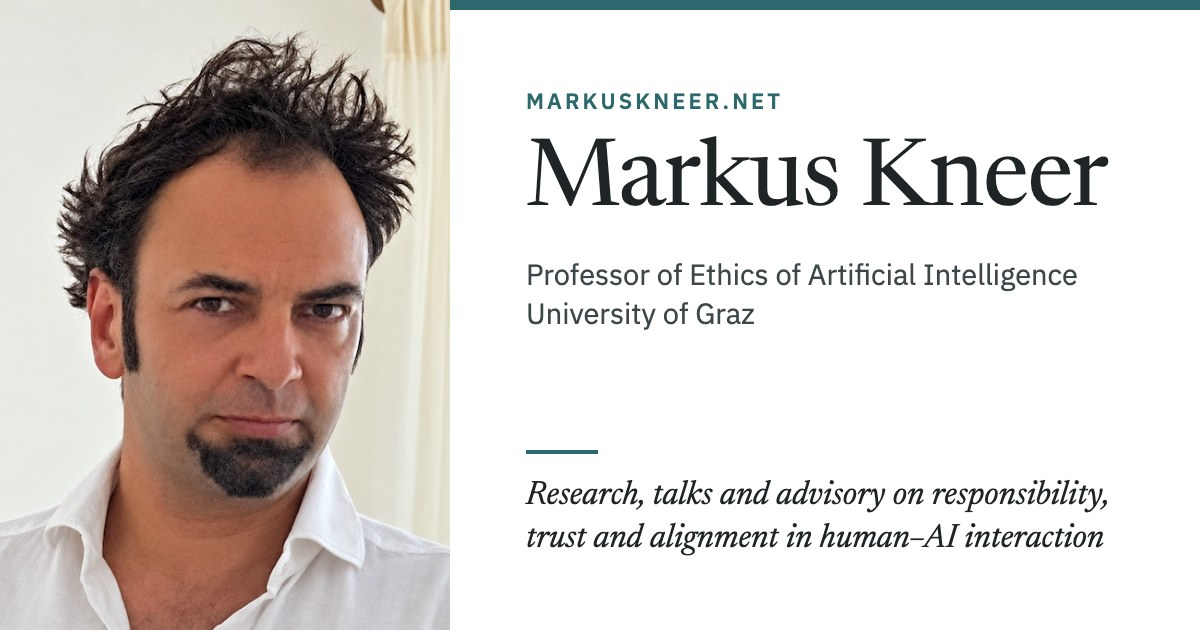
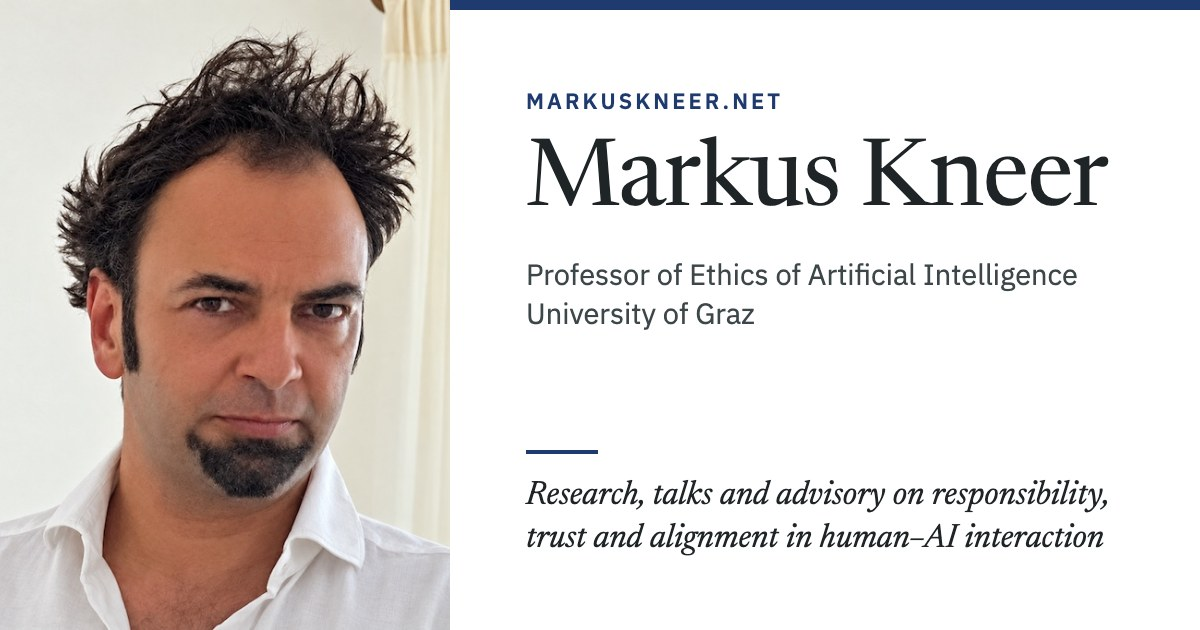
Switch the accent colour from teal to dark blue
Applies dark blue (#1E3A6E) to links, menu highlights, the MK icon and
the preview card. Links inside running text get a light underline,
since the blue is close to the text colour.

Changed region(s): [[0.37, 0.0, 1.0, 0.0302], [0.4317, 0.1508, 0.6475, 0.181], [0.4317, 0.6937, 0.4933, 0.7238]]

diff --git a/index.html b/index.html
@@ -6,16 +6,16 @@
 <title>Markus Kneer — Professor of Ethics of Artificial Intelligence, University of Graz</title>
 <meta name="description" content="Markus Kneer is Professor of Ethics of Artificial Intelligence at the University of Graz and director of the Guilty Minds Lab. Research on responsibility, trust and norms in human–AI interaction, moral and legal judgement, and the ethics of AI.">
 <link rel="canonical" href="https://www.markuskneer.net/">
-<link rel="icon" href="favicon.ico" sizes="16x16 32x32 48x48">
-<link rel="icon" type="image/png" sizes="192x192" href="favicon-192.png">
-<link rel="apple-touch-icon" href="apple-touch-icon.png">
+<link rel="icon" href="favicon.ico?v=2" sizes="16x16 32x32 48x48">
+<link rel="icon" type="image/png" sizes="192x192" href="favicon-192.png?v=2">
+<link rel="apple-touch-icon" href="apple-touch-icon.png?v=2">
 <meta property="og:type" content="website">
 <meta property="og:site_name" content="Markus Kneer">
 <meta property="og:locale" content="en_GB">
 <meta property="og:title" content="Markus Kneer — Ethics of Artificial Intelligence">
 <meta property="og:description" content="Professor of Ethics of Artificial Intelligence at the University of Graz. Research, talks and advisory on responsibility, trust and alignment in human–AI interaction.">
 <meta property="og:url" content="https://www.markuskneer.net/">
-<meta property="og:image" content="https://www.markuskneer.net/images/og-card.jpg">
+<meta property="og:image" content="https://www.markuskneer.net/images/og-card.jpg?v=2">
 <meta property="og:image:width" content="1200">
 <meta property="og:image:height" content="630">
 <meta property="og:image:alt" content="Markus Kneer, Professor of Ethics of Artificial Intelligence, University of Graz">
@@ -23,7 +23,7 @@
 <link rel="preconnect" href="https://fonts.googleapis.com">
 <link rel="preconnect" href="https://fonts.gstatic.com" crossorigin>
 <link href="https://fonts.googleapis.com/css2?family=Newsreader:ital,opsz,wght@0,6..72,400;0,6..72,500;1,6..72,400&family=IBM+Plex+Sans:wght@400;500;600&display=swap" rel="stylesheet">
-<link rel="stylesheet" href="style.css?v=2026-10-20b">
+<link rel="stylesheet" href="style.css?v=2026-10-20c">
 <script>document.documentElement.classList.add('js');</script>
 <script src="nav.js?v=2026-10-20b" defer></script>
 </head>
@@ -31,7 +31,7 @@
 
 <header class="site-header">
   <div class="wrap">
-    <a class="brand" href="index.html"><img class="brand-mark" src="favicon-192.png" width="40" height="40" alt="Markus Kneer, home page"></a>
+    <a class="brand" href="index.html"><img class="brand-mark" src="favicon-192.png?v=2" width="40" height="40" alt="Markus Kneer, home page"></a>
     <button class="nav-toggle" type="button" aria-expanded="false" aria-controls="site-nav"><span class="nav-toggle-bars" aria-hidden="true"></span><span class="visually-hidden">Menu</span></button>
     <nav class="site-nav" id="site-nav" aria-label="Site">
       <a href="#research">Research</a>

diff --git a/guiltymindslab.html b/guiltymindslab.html
@@ -6,16 +6,16 @@
 <title>Guilty Minds Lab — Markus Kneer</title>
 <meta name="description" content="The Guilty Minds Lab, led by Markus Kneer at the University of Graz, combines philosophy and experimental cognitive science to study responsibility, trust, alignment and legal judgement in the age of AI.">
 <link rel="canonical" href="https://www.markuskneer.net/guiltymindslab.html">
-<link rel="icon" href="favicon.ico" sizes="16x16 32x32 48x48">
-<link rel="icon" type="image/png" sizes="192x192" href="favicon-192.png">
-<link rel="apple-touch-icon" href="apple-touch-icon.png">
+<link rel="icon" href="favicon.ico?v=2" sizes="16x16 32x32 48x48">
+<link rel="icon" type="image/png" sizes="192x192" href="favicon-192.png?v=2">
+<link rel="apple-touch-icon" href="apple-touch-icon.png?v=2">
 <meta property="og:type" content="website">
 <meta property="og:site_name" content="Markus Kneer">
 <meta property="og:locale" content="en_GB">
 <meta property="og:title" content="Guilty Minds Lab — Markus Kneer">
 <meta property="og:description" content="The Guilty Minds Lab, led by Markus Kneer at the University of Graz, combines philosophy and experimental cognitive science to study responsibility, trust, alignment and legal judgement in the age of AI.">
 <meta property="og:url" content="https://www.markuskneer.net/guiltymindslab.html">
-<meta property="og:image" content="https://www.markuskneer.net/images/og-card.jpg">
+<meta property="og:image" content="https://www.markuskneer.net/images/og-card.jpg?v=2">
 <meta property="og:image:width" content="1200">
 <meta property="og:image:height" content="630">
 <meta property="og:image:alt" content="Markus Kneer, Professor of Ethics of Artificial Intelligence, University of Graz">
@@ -23,7 +23,7 @@
 <link rel="preconnect" href="https://fonts.googleapis.com">
 <link rel="preconnect" href="https://fonts.gstatic.com" crossorigin>
 <link href="https://fonts.googleapis.com/css2?family=Newsreader:ital,opsz,wght@0,6..72,400;0,6..72,500;1,6..72,400&family=IBM+Plex+Sans:wght@400;500;600&display=swap" rel="stylesheet">
-<link rel="stylesheet" href="style.css?v=2026-10-20b">
+<link rel="stylesheet" href="style.css?v=2026-10-20c">
 <script>document.documentElement.classList.add('js');</script>
 <script src="nav.js?v=2026-10-20b" defer></script>
 </head>
@@ -31,7 +31,7 @@
 
 <header class="site-header">
   <div class="wrap">
-    <a class="brand" href="index.html"><img class="brand-mark" src="favicon-192.png" width="40" height="40" alt="Markus Kneer, home page"></a>
+    <a class="brand" href="index.html"><img class="brand-mark" src="favicon-192.png?v=2" width="40" height="40" alt="Markus Kneer, home page"></a>
     <button class="nav-toggle" type="button" aria-expanded="false" aria-controls="site-nav"><span class="nav-toggle-bars" aria-hidden="true"></span><span class="visually-hidden">Menu</span></button>
     <nav class="site-nav" id="site-nav" aria-label="Site">
       <a href="index.html#research">Research</a>

diff --git a/nihai.html b/nihai.html
@@ -6,16 +6,16 @@
 <title>NIHAI — Norms of Assertion in Linguistic Human–AI Interaction — Markus Kneer</title>
 <meta name="description" content="NIHAI is a four-country HERA/CHANSE research consortium led by Markus Kneer on norms of assertion and responsible principles for AI-driven conversational agents.">
 <link rel="canonical" href="https://www.markuskneer.net/nihai.html">
-<link rel="icon" href="favicon.ico" sizes="16x16 32x32 48x48">
-<link rel="icon" type="image/png" sizes="192x192" href="favicon-192.png">
-<link rel="apple-touch-icon" href="apple-touch-icon.png">
+<link rel="icon" href="favicon.ico?v=2" sizes="16x16 32x32 48x48">
+<link rel="icon" type="image/png" sizes="192x192" href="favicon-192.png?v=2">
+<link rel="apple-touch-icon" href="apple-touch-icon.png?v=2">
 <meta property="og:type" content="website">
 <meta property="og:site_name" content="Markus Kneer">
 <meta property="og:locale" content="en_GB">
 <meta property="og:title" content="NIHAI — Norms of Assertion in Linguistic Human–AI Interaction — Markus Kneer">
 <meta property="og:description" content="NIHAI is a four-country HERA/CHANSE research consortium led by Markus Kneer on norms of assertion and responsible principles for AI-driven conversational agents.">
 <meta property="og:url" content="https://www.markuskneer.net/nihai.html">
-<meta property="og:image" content="https://www.markuskneer.net/images/og-card.jpg">
+<meta property="og:image" content="https://www.markuskneer.net/images/og-card.jpg?v=2">
 <meta property="og:image:width" content="1200">
 <meta property="og:image:height" content="630">
 <meta property="og:image:alt" content="Markus Kneer, Professor of Ethics of Artificial Intelligence, University of Graz">
@@ -23,7 +23,7 @@
 <link rel="preconnect" href="https://fonts.googleapis.com">
 <link rel="preconnect" href="https://fonts.gstatic.com" crossorigin>
 <link href="https://fonts.googleapis.com/css2?family=Newsreader:ital,opsz,wght@0,6..72,400;0,6..72,500;1,6..72,400&family=IBM+Plex+Sans:wght@400;500;600&display=swap" rel="stylesheet">
-<link rel="stylesheet" href="style.css?v=2026-10-20b">
+<link rel="stylesheet" href="style.css?v=2026-10-20c">
 <script>document.documentElement.classList.add('js');</script>
 <script src="nav.js?v=2026-10-20b" defer></script>
 </head>
@@ -31,7 +31,7 @@
 
 <header class="site-header">
   <div class="wrap">
-    <a class="brand" href="index.html"><img class="brand-mark" src="favicon-192.png" width="40" height="40" alt="Markus Kneer, home page"></a>
+    <a class="brand" href="index.html"><img class="brand-mark" src="favicon-192.png?v=2" width="40" height="40" alt="Markus Kneer, home page"></a>
     <button class="nav-toggle" type="button" aria-expanded="false" aria-controls="site-nav"><span class="nav-toggle-bars" aria-hidden="true"></span><span class="visually-hidden">Menu</span></button>
     <nav class="site-nav" id="site-nav" aria-label="Site">
       <a href="index.html#research">Research</a>

diff --git a/publications.html b/publications.html
@@ -6,16 +6,16 @@
 <title>Publications — Markus Kneer</title>
 <meta name="description" content="Publications by Markus Kneer, Professor of Ethics of Artificial Intelligence at the University of Graz: articles in PNAS, Cognition, Noûs, Cognitive Science, CHI, CSCW, FAccT and others.">
 <link rel="canonical" href="https://www.markuskneer.net/publications.html">
-<link rel="icon" href="favicon.ico" sizes="16x16 32x32 48x48">
-<link rel="icon" type="image/png" sizes="192x192" href="favicon-192.png">
-<link rel="apple-touch-icon" href="apple-touch-icon.png">
+<link rel="icon" href="favicon.ico?v=2" sizes="16x16 32x32 48x48">
+<link rel="icon" type="image/png" sizes="192x192" href="favicon-192.png?v=2">
+<link rel="apple-touch-icon" href="apple-touch-icon.png?v=2">
 <meta property="og:type" content="website">
 <meta property="og:site_name" content="Markus Kneer">
 <meta property="og:locale" content="en_GB">
 <meta property="og:title" content="Publications — Markus Kneer">
 <meta property="og:description" content="Publications by Markus Kneer, Professor of Ethics of Artificial Intelligence at the University of Graz: articles in PNAS, Cognition, Noûs, Cognitive Science, CHI, CSCW, FAccT and others.">
 <meta property="og:url" content="https://www.markuskneer.net/publications.html">
-<meta property="og:image" content="https://www.markuskneer.net/images/og-card.jpg">
+<meta property="og:image" content="https://www.markuskneer.net/images/og-card.jpg?v=2">
 <meta property="og:image:width" content="1200">
 <meta property="og:image:height" content="630">
 <meta property="og:image:alt" content="Markus Kneer, Professor of Ethics of Artificial Intelligence, University of Graz">
@@ -23,7 +23,7 @@
 <link rel="preconnect" href="https://fonts.googleapis.com">
 <link rel="preconnect" href="https://fonts.gstatic.com" crossorigin>
 <link href="https://fonts.googleapis.com/css2?family=Newsreader:ital,opsz,wght@0,6..72,400;0,6..72,500;1,6..72,400&family=IBM+Plex+Sans:wght@400;500;600&display=swap" rel="stylesheet">
-<link rel="stylesheet" href="style.css?v=2026-10-20b">
+<link rel="stylesheet" href="style.css?v=2026-10-20c">
 <script>document.documentElement.classList.add('js');</script>
 <script src="nav.js?v=2026-10-20b" defer></script>
 </head>
@@ -31,7 +31,7 @@
 
 <header class="site-header">
   <div class="wrap">
-    <a class="brand" href="index.html"><img class="brand-mark" src="favicon-192.png" width="40" height="40" alt="Markus Kneer, home page"></a>
+    <a class="brand" href="index.html"><img class="brand-mark" src="favicon-192.png?v=2" width="40" height="40" alt="Markus Kneer, home page"></a>
     <button class="nav-toggle" type="button" aria-expanded="false" aria-controls="site-nav"><span class="nav-toggle-bars" aria-hidden="true"></span><span class="visually-hidden">Menu</span></button>
     <nav class="site-nav" id="site-nav" aria-label="Site">
       <a href="index.html#research">Research</a>

diff --git a/style.css b/style.css
@@ -1,5 +1,5 @@
 /* markuskneer.net — site stylesheet
-   One accent colour (teal), white ground, serif headings, sans body. */
+   One accent colour (dark blue), white ground, serif headings, sans body. */
 
 :root {
   --ink: #1f2426;
@@ -8,8 +8,8 @@
   --rule: #e4e8e9;
   --ground: #ffffff;
   --ground-2: #f8f9f9;
-  --accent: #2C686C;
-  --accent-dark: #1d474a;
+  --accent: #1E3A6E;
+  --accent-dark: #142A52;
   --serif: 'Newsreader', 'Iowan Old Style', 'Palatino Linotype', Georgia, serif;
   --sans: 'IBM Plex Sans', 'Helvetica Neue', Helvetica, Arial, sans-serif;
 }
@@ -206,3 +206,10 @@ h3 { font-size: 21px; line-height: 1.3; font-weight: 500; }
   .intro .role { margin-bottom: 0; }
   .portrait { max-width: 280px; margin: 24px 0 26px 0; }
 }
+
+/* Links inside running text are underlined: the dark blue is close to the text colour */
+.intro .lede a, .section-body p a, .page-title p a, .aims a {
+  text-decoration: underline; text-decoration-thickness: 1px; text-underline-offset: 3px;
+  text-decoration-color: rgba(30, 58, 110, 0.35);
+}
+.intro .lede a:hover, .section-body p a:hover, .page-title p a:hover, .aims a:hover { text-decoration-color: currentColor; }
